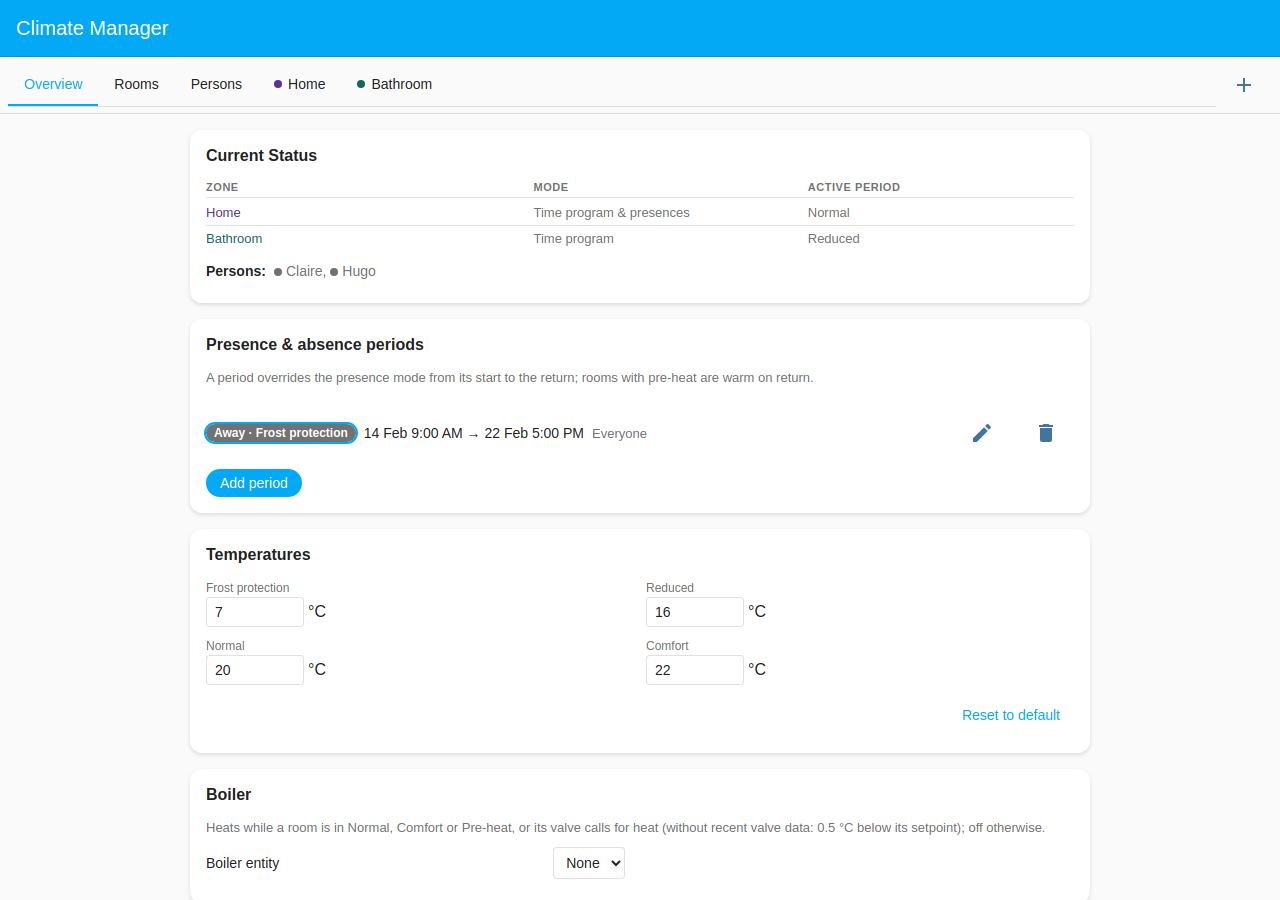
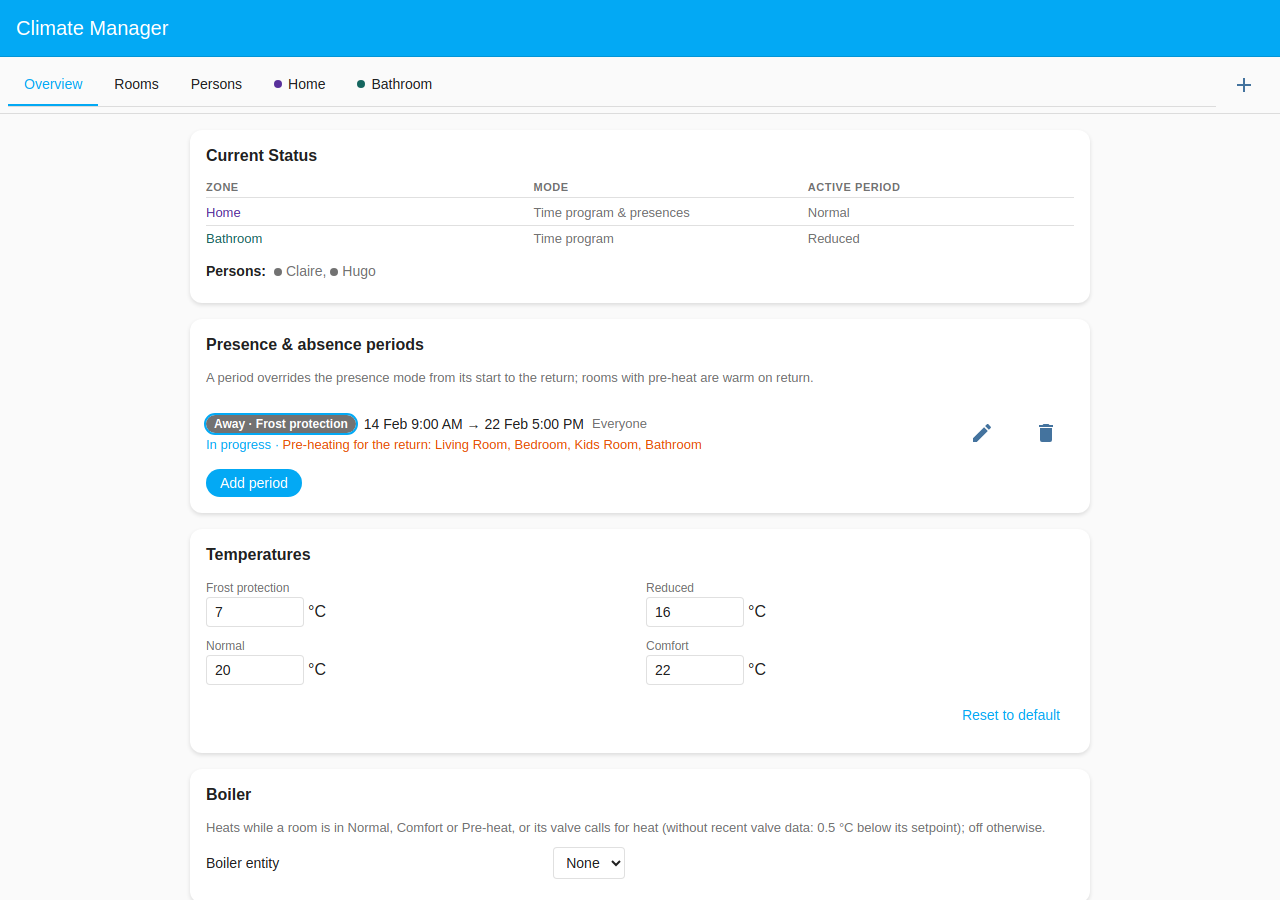
feat(panel): absence period status and its return pre-heat
A running period's row reads "In progress", followed by "Pre-heating for
the return" and the rooms warming up once pre-heat has started for it.
Each rooms_status entry carries preheat_return, the id of the household
absence whose return its held pre-heat is for.

Claude-Session: https://claude.ai/code/session_01QZnP9m9E2mk5CKAE1yWVgR

Changed region(s): [[0.1562, 0.4356, 0.5312, 0.4978]]

diff --git a/frontend/src/components/presence-periods-card.ts b/frontend/src/components/presence-periods-card.ts
@@ -13,7 +13,7 @@
  * and ha-button.
  */
 
-import { LitElement, html, css } from "lit";
+import { LitElement, html, css, unsafeCSS } from "lit";
 import { property, state } from "lit/decorators.js";
 import { live } from "lit/directives/live.js";
 
@@ -26,6 +26,7 @@ import {
   hasPresenceZone,
   isLocalDateTime,
   joinLocal,
+  periodStatus,
   SETBACK_LABELS,
   selectionToPersonIds,
   splitLocal,
@@ -39,7 +40,9 @@ import type {
   Hass,
   PresencePeriod,
   PresencePeriodKind,
+  StatusPayload,
 } from "../types.js";
+import { PERIOD_COLORS } from "../types.js";
 import type { WsClient } from "../ws-client.js";
 import type { ClimateManagerPanel } from "../main.js";
 
@@ -59,6 +62,8 @@ export class PresencePeriodsCard extends LitElement {
   @property({ attribute: false }) hass!: Hass;
   @property({ attribute: false }) ws!: WsClient;
   @property({ attribute: false }) panel!: ClimateManagerPanel;
+  /** Live status: the rooms pre-heating for a period's return. */
+  @property({ attribute: false }) status: StatusPayload | null = null;
 
   @state() private _draft: PeriodDraft | null = null;
   @state() private _saving = false;
@@ -118,6 +123,16 @@ export class PresencePeriodsCard extends LitElement {
 
       .nowrap {
         white-space: nowrap;
+      }
+
+      .status {
+        flex-basis: 100%;
+        font-size: 13px;
+        color: var(--primary-color);
+      }
+
+      .status .preheat {
+        color: ${unsafeCSS(PERIOD_COLORS.preheat)};
       }
 
       .period-row:last-of-type {
@@ -470,6 +485,23 @@ export class PresencePeriodsCard extends LitElement {
       : "Away";
   }
 
+  /** "In progress", and the rooms pre-heating for the return. */
+  private _renderStatus(period: PresencePeriod, now: string) {
+    const status = periodStatus(
+      period,
+      now,
+      this.status?.rooms_status,
+      (areaId) => this.hass?.areas?.[areaId]?.name ?? areaId,
+    );
+    if (!status) return "";
+    const rooms = status.preheating.join(", ");
+    const preheat = rooms
+      ? html` ·
+          <span class="preheat">Pre-heating for the return: ${rooms}</span>`
+      : "";
+    return html`<div class="status">In progress${preheat}</div>`;
+  }
+
   private _renderPeriod(period: PresencePeriod, now: string, amPm: boolean) {
     const active = period.start <= now;
     const restrictedNoEffect =
@@ -492,6 +524,7 @@ export class PresencePeriodsCard extends LitElement {
               ? html` — no effect without a Time program & presences zone`
               : ""}
           </span>
+          ${this._renderStatus(period, now)}
         </div>
         <div class="actions">
           <ha-icon-button

diff --git a/frontend/src/presence-periods.test.ts b/frontend/src/presence-periods.test.ts
@@ -14,6 +14,7 @@ import {
   hasPresenceZone,
   isLocalDateTime,
   joinLocal,
+  periodStatus,
   personPeriodBadge,
   selectionToPersonIds,
   splitLocal,
@@ -21,7 +22,7 @@ import {
   toLocalInput,
   useAmPm,
 } from "./presence-periods.ts";
-import type { ClimateConfig, PresencePeriod } from "./types.ts";
+import type { ClimateConfig, PresencePeriod, RoomStatus } from "./types.ts";
 
 const TRIP: PresencePeriod = {
   id: "trip",
@@ -150,4 +151,25 @@ test("suggestedSetback: Frost protection beyond 2 days", () => {
     "reduced",
   );
   assert.equal(suggestedSetback("2026-11-05T08:00", ""), "reduced");
+});
+
+test("periodStatus: in progress, with the rooms pre-heating for the return", () => {
+  const holiday: PresencePeriod = {
+    id: "ski",
+    kind: "absent",
+    start: "2026-02-14T09:00",
+    end: "2026-02-22T17:00",
+  };
+  const room = (area_id: string, preheat_return: string | null) =>
+    ({ area_id, preheat_return }) as RoomStatus;
+  const rooms = [room("bedroom", "ski"), room("bath", null), room("x", "o")];
+  const name = (id: string) => id.toUpperCase();
+
+  assert.equal(periodStatus(holiday, "2026-02-14T08:59", rooms, name), null);
+  assert.deepEqual(periodStatus(holiday, "2026-02-14T09:00", [], name), {
+    preheating: [],
+  });
+  assert.deepEqual(periodStatus(holiday, "2026-02-22T10:00", rooms, name), {
+    preheating: ["BEDROOM"],
+  });
 });

diff --git a/frontend/src/presence-periods.ts b/frontend/src/presence-periods.ts
@@ -13,6 +13,7 @@ import type {
   ClimateConfig,
   Hass,
   PresencePeriod,
+  RoomStatus,
 } from "./types.js";
 
 /** An absence of everyone longer than this proposes Frost protection. */
@@ -166,4 +167,21 @@ export function suggestedSetback(start: string, end: string): AbsenceSetback {
   // Both read as UTC: a DST change does not shift the length.
   const ms = Date.parse(`${end}:00Z`) - Date.parse(`${start}:00Z`);
   return ms > FROST_SUGGEST_DAYS * 86_400_000 ? "frost_protection" : "reduced";
+}
+
+/**
+ * Status of a period at `now`: null before its start, else "In progress"
+ * and the rooms pre-heating for its return (names from roomName).
+ */
+export function periodStatus(
+  period: PresencePeriod,
+  now: string,
+  rooms: RoomStatus[] | undefined,
+  roomName: (areaId: string) => string,
+): { preheating: string[] } | null {
+  if (period.start > now) return null;
+  const preheating = (rooms ?? [])
+    .filter((room) => room.preheat_return === period.id)
+    .map((room) => roomName(room.area_id));
+  return { preheating };
 }

diff --git a/frontend/src/types.ts b/frontend/src/types.ts
@@ -213,6 +213,8 @@ export interface RoomStatus {
   preheat_lead?: number | null;
   /** °C currently added to the TRV setpoint by the pre-heat boost. */
   preheat_boost?: number | null;
+  /** Id of the household absence whose return the pre-heat is for. */
+  preheat_return?: string | null;
   /**
    * Learned pre-heat anticipation (minutes): the boost (valve wide open)
    * is released once the target is this close at the current heating

diff --git a/frontend/src/components/global-settings-tab.ts b/frontend/src/components/global-settings-tab.ts
@@ -1082,6 +1082,7 @@ export class GlobalSettingsTab extends LitElement {
       ${this._renderStatusCard()}
       <climate-manager-presence-periods-card
         .config=${this.config}
+        .status=${this.status}
         .hass=${this.hass}
         .ws=${this.ws}
         .panel=${this.panel}

diff --git a/tests/test_preheat.py b/tests/test_preheat.py
@@ -2204,6 +2204,7 @@ async def test_reduced_return_lead_goes_beyond_the_room_max_lead(hass, freezer):
     assert room._preheat_active is True
     run = room._preheat_in_progress
     assert run["return_period"] == "trip"
+    assert room.preheat_return_period() == "trip"
     assert run["frost_return"] is False
     assert room._run_sample(run, _dt(2026, 6, 3, 18, 0), False, "x")
 
@@ -2223,6 +2224,7 @@ async def test_scheduled_increase_names_no_return_period(hass, freezer):
 
     assert room._preheat_active is True
     assert room._preheat_in_progress["return_period"] is None
+    assert room.preheat_return_period() is None
 
 
 async def test_frost_return_run_gives_no_rate_sample(hass, freezer):

diff --git a/custom_components/climate_manager/coordinator.py b/custom_components/climate_manager/coordinator.py
@@ -975,6 +975,12 @@ class ClimateManagerCoordinator:
                 if _room_obj is not None
                 else None
             )
+            # Absence whose return the room is pre-heating for.
+            room_entry["preheat_return"] = (
+                _room_obj.preheat_return_period()
+                if _room_obj is not None
+                else None
+            )
             # Learned anticipation (minutes) releasing the boost.
             room_entry["preheat_anticipation"] = (
                 _room_obj.anticipation() if _room_obj is not None else None

diff --git a/custom_components/climate_manager/room.py b/custom_components/climate_manager/room.py
@@ -320,6 +320,13 @@ class Room:
             {},
         )
 
+    def preheat_return_period(self) -> str | None:
+        """Id of the absence whose return the held pre-heat is for."""
+        ip = self._preheat_in_progress
+        if not ip or not self._preheat_active:
+            return None
+        return ip.get("return_period")
+
     def anticipation(self) -> float:
         """Learned anticipation of the room, minutes (default until tuned).
 

diff --git a/tests/test_preheat_hold.py b/tests/test_preheat_hold.py
@@ -437,6 +437,7 @@ async def test_full_boost_until_release(hass, freezer, caplog, with_boost):
     assert room._last_setpoint == NORMAL
     assert room.preheat_boosting
     assert _status(coordinator)["preheat_boost"] == 3.0
+    assert _status(coordinator)["preheat_return"] is None
 
     # 0.05 °C/min, 2.5 °C left → 50 min: keep the valve open.
     for local, temp in (("06:10", 17.5), ("06:20", 18.0), ("06:30", 19.0)):

diff --git a/docs/architecture.md b/docs/architecture.md
@@ -195,6 +195,10 @@ shares all) may not overlap (`validate_presence_periods`).
   then, and no increase inside a household absence. An arrival targets
   `compute_occupied_temp(program, arrival, present)`, so a return inside a
   Reduced gap between two Normal periods is pre-heated to Normal.
+- **Status in the panel**: each `rooms_status[]` entry carries `preheat_return`
+  (`Room.preheat_return_period`), the id of the household absence whose return
+  its held pre-heat is for. The period row shows "In progress" while the period
+  runs and "Pre-heating for the return: <rooms>" from those entries.
 - **Pruning**: ended periods are dropped and saved at the start of each
   evaluation.
 
@@ -321,22 +325,22 @@ the start, the mean flow temperature over the run; the sample copies them
 ones left out) and the `preheat | … reached/censored` log appends
 `outdoor=… flow=…`. They are not used by the lead yet. The status payload
 exposes `preheat_rate`, `preheat_samples`, `preheat_lead`, `preheat_boost` and
-`preheat_anticipation` (shown in the room card). **Boost — valve wide open,
-released by anticipation**: the energy to warm a room is the same at any speed,
-while the losses favour heating late and fast, and an overshoot is pure waste;
-the boiler's flow temperature (its heating curve) is the only real speed lever.
-So a run starts as late as the learned rate allows, heats with the valve wide
-open, and releases the boost early enough for the radiator's residual heat to
-land on the target. A TRV next to a hot radiator also reads high and would
-throttle before the room is warm. Until released (hold and measuring),
-`apply_setpoint` pushes to the TRVs the setpoint plus the full boost allowed:
-`PREHEAT_BOOST_MAX` (3 °C), capped at the TRVs' `max_temp`, rounded down to 0.5
-°C (`Room._preheat_boost`; none without a room temperature). `_last_setpoint`
-keeps the unboosted value. Each tick a boosting run records the room temperature
-(`readings`, the last 30 min plus the reading at the window's start); the
-**heating speed** is the slope over them (`heating_slope`; unknown under 10 min
-of readings or when not warming), else 1 / learned rate. The boost is
-**released** (`Room._release_due`) once
+`preheat_anticipation` (shown in the room card), and `preheat_return` (the
+period row). **Boost — valve wide open, released by anticipation**: the energy
+to warm a room is the same at any speed, while the losses favour heating late
+and fast, and an overshoot is pure waste; the boiler's flow temperature (its
+heating curve) is the only real speed lever. So a run starts as late as the
+learned rate allows, heats with the valve wide open, and releases the boost
+early enough for the radiator's residual heat to land on the target. A TRV next
+to a hot radiator also reads high and would throttle before the room is warm.
+Until released (hold and measuring), `apply_setpoint` pushes to the TRVs the
+setpoint plus the full boost allowed: `PREHEAT_BOOST_MAX` (3 °C), capped at the
+TRVs' `max_temp`, rounded down to 0.5 °C (`Room._preheat_boost`; none without a
+room temperature). `_last_setpoint` keeps the unboosted value. Each tick a
+boosting run records the room temperature (`readings`, the last 30 min plus the
+reading at the window's start); the **heating speed** is the slope over them
+(`heating_slope`; unknown under 10 min of readings or when not warming), else 1
+/ learned rate. The boost is **released** (`Room._release_due`) once
 `(target − room_temp) / speed ≤ anticipation`, or the room reached the target;
 without any speed, within `PREHEAT_CONVERGENCE_THRESHOLD` of it. The plain
 setpoint is then re-pushed in the same tick (`_drop_boost`), `released` is

diff --git a/docs/use-cases/family-holiday/README.md b/docs/use-cases/family-holiday/README.md
@@ -62,11 +62,13 @@ it until the return.
   <source media="(prefers-color-scheme: dark)"
           srcset="screenshots/dark/overview-present.png">
   <img src="screenshots/light/overview-present.png"
-       alt="Overview, Presence & absence periods card, Away · Frost protection">
+       alt="Overview, the Away · Frost protection period pre-heating for the return">
 </picture>
 
 The **Presence & absence periods** card lists the holiday: **Away · Frost
-protection**, 14 Feb 9:00 AM → 22 Feb 5:00 PM, **Everyone**.
+protection**, 14 Feb 9:00 AM → 22 Feb 5:00 PM, **Everyone**. Captured on the
+Sunday afternoon of the return, its row reads **In progress · Pre-heating for
+the return**, followed by the rooms warming up for 17:00.
 
 - For these dates the period wins over both Scheduled presences, whatever the
   weekly schedule says.
@@ -123,9 +125,9 @@ holds every room at Frost protection.
        alt="Overview mid-holiday, Claire and Hugo absent">
 </picture>
 
-Claire and Hugo are absent (grey dots). The zone rows show each programme's
-current period, Normal for Home and Comfort for Bathroom; what the rooms apply
-is on the Rooms tab.
+Claire and Hugo are absent (grey dots), and the holiday row reads **In
+progress**. The zone rows show each programme's current period, Normal for Home
+and Comfort for Bathroom; what the rooms apply is on the Rooms tab.
 
 <picture>
   <source media="(prefers-color-scheme: dark)"

diff --git a/README.md b/README.md
@@ -242,6 +242,8 @@ cannot know about. Add a period with its **Type** (Absence or Presence), its
   hours ahead while its heating rate is still learned. Walls cooled during the
   absence slow the rise, so the lead from the learned rate gets a 50 % margin
   instead of 10 %. Coming back from Frost protection teaches the room no rate.
+- While a period runs its row reads **In progress**, followed by **Pre-heating
+  for the return** and the rooms warming up once pre-heat has started.
 - Two periods covering the same person cannot overlap. Ended periods disappear
   on their own.
 
